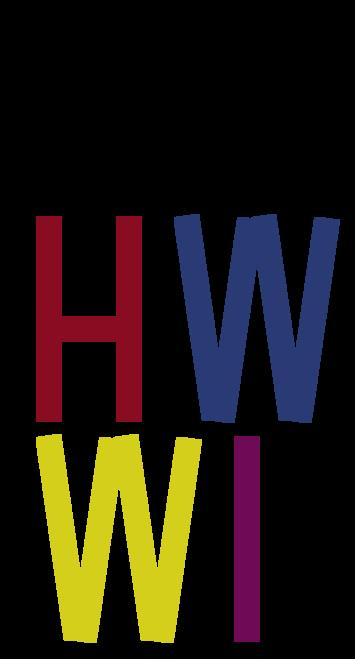
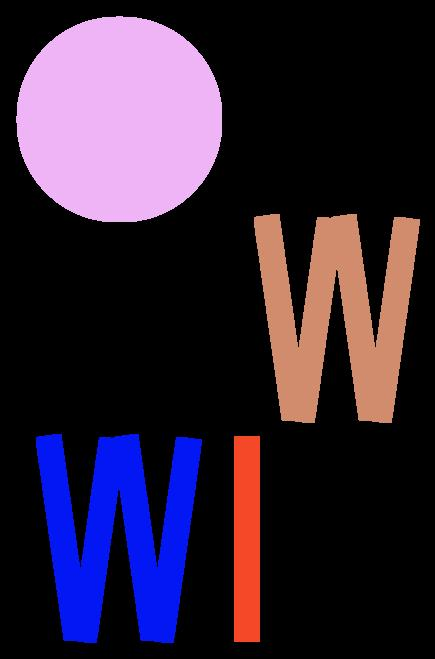
eliste fonction mais Lettrer Factory a faire

diff --git a/labo/src/tp1/Rectangle.java b/labo/src/tp1/Rectangle.java
@@ -6,7 +6,7 @@ import java.util.Set;
 public class Rectangle extends BaseShape {
     // TODO creer un rectangle avec une largeur et une longueur.
     public Rectangle(Double width, Double height) {
-        this(init(width, height));
+        super(init(width, height));
     }
 
     static private Set init(Double width, Double height) {
@@ -21,9 +21,7 @@ public class Rectangle extends BaseShape {
 
     // TODO creer un rectangle avec un point contenant la largeur et longueur.
     public Rectangle(Point2d dimensions) {
-         Set coords= new HashSet<Point2d>();
-          coords.add(dimensions);
-        new Rectangle(coords);
+         super(init(dimensions.X(),dimensions.Y()));
     }
 
     private Rectangle(Set<Point2d> coords) {

diff --git a/labo/src/tp1/Ellipse.java b/labo/src/tp1/Ellipse.java
@@ -11,8 +11,11 @@ public class Ellipse extends BaseShape {
 
     static private Set<Point2d> init(Double widthRadius, Double heightRadius) {
         Set<Point2d> coords = new HashSet<Point2d>();
-        Point2d point = new Point2d(widthRadius,heightRadius);
-        Ge
+        for(double i=-widthRadius;i<widthRadius;i++)
+            for (double j=-heightRadius;j<heightRadius;j++){
+                if((Math.pow(i,2.0)/Math.pow(widthRadius,2.0))+(Math.pow(j,2.0)/Math.pow(heightRadius,2.0))<=1)
+                    coords.add(new Point2d(i,j));
+            }
         return coords;
     }
 

diff --git a/labo/src/tp1/Main.java b/labo/src/tp1/Main.java
@@ -31,7 +31,7 @@ public class Main {
             System.out.println("Hello World!");
         }
         try{LetterPlacer letterPlacer = new LetterPlacer();
-            letterPlacer.placeNext('H');
+            letterPlacer.placeNext('o');
             letterPlacer.placeNext('W');
             letterPlacer.placeNextln('W');
             letterPlacer.placeNext('l');

diff --git a/labo/src/tp1/LetterFactory.java b/labo/src/tp1/LetterFactory.java
@@ -38,7 +38,8 @@ public final class LetterFactory {
 
     // TODO
     public static BaseShape create_o() {
-        return null;
+        BaseShape mainStripe = new Circle(halfMaxHeight);
+        return mainStripe;
     }
 
     // On vous donne la lettre W comme exemple.
